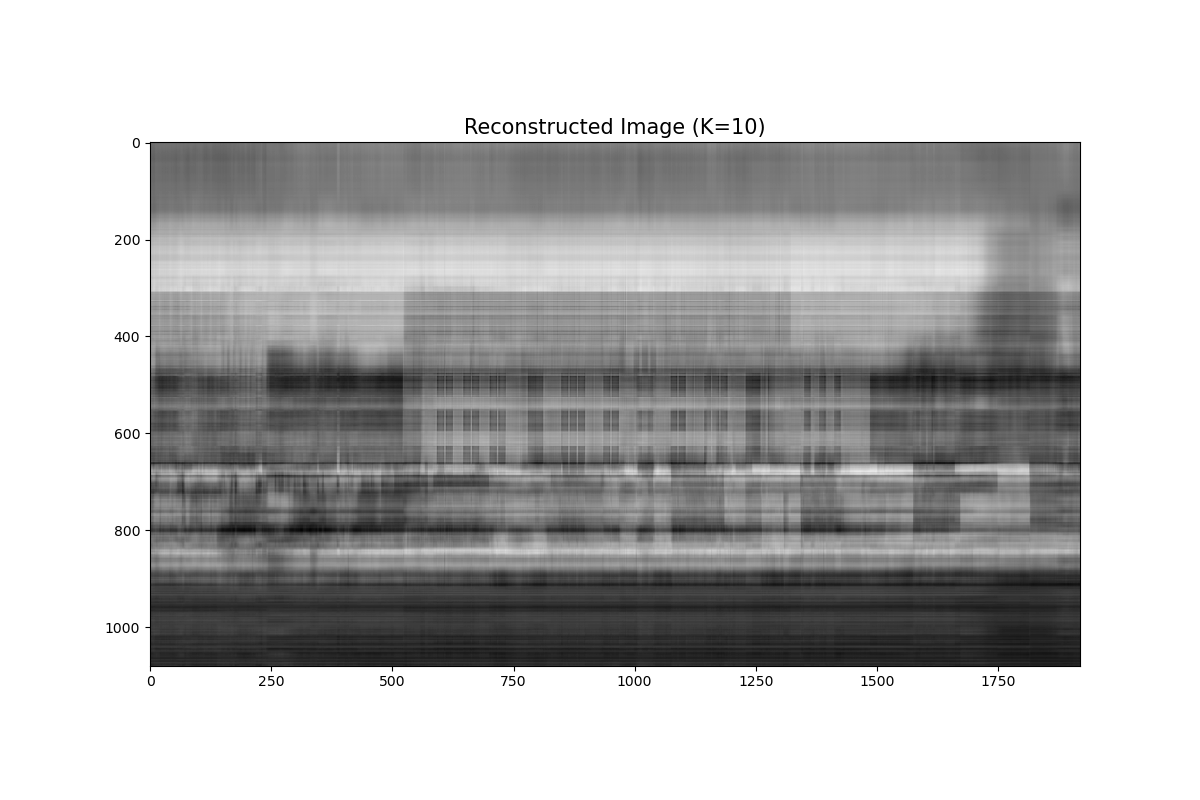
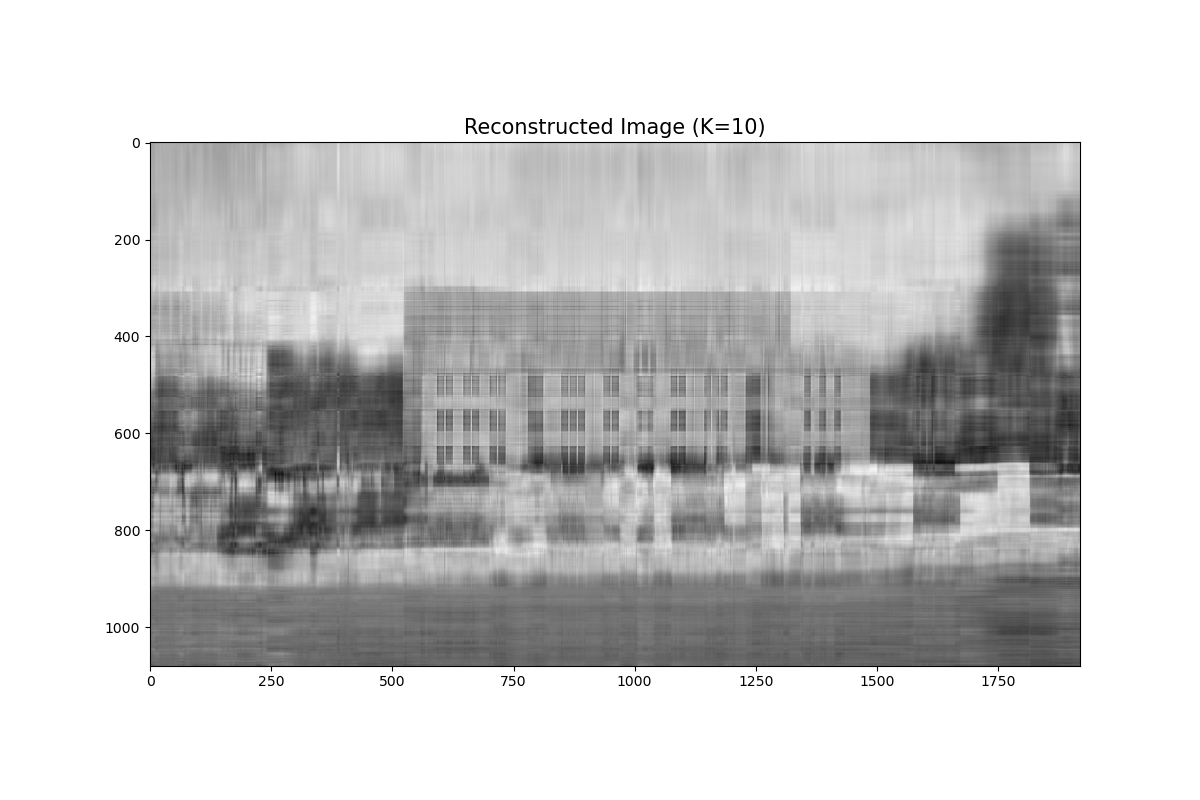
commit

diff --git a/problem4.py b/problem4.py
@@ -1,4 +1,3 @@
-
 import numpy as np
 from matplotlib.image import imread
 import matplotlib.pyplot as plt
@@ -52,12 +51,13 @@ if __name__ == "__main__":
     ### Reconstructe image: make X_tilde using B_10, B_50, B_100, B_500, B_1000
     ### Don't forget PCA is performed on the mean-shifted image. So you have to add the mean after reconstruction!
     ### Fill in ################################
-    X_tilde_10    = np.matmul(np.matmul(B_10, np.transpose(B_10)), X) + X_mean
-    X_tilde_50    = np.matmul(np.matmul(B_50, np.transpose(B_50)), X) + X_mean
-    X_tilde_100   = np.matmul(np.matmul(B_100, np.transpose(B_100)), X) + X_mean
-    X_tilde_500   = np.matmul(np.matmul(B_500, np.transpose(B_500)), X) + X_mean
-    X_tilde_1000  = np.matmul(np.matmul(B_1000, np.transpose(B_1000)), X) + X_mean
-    ############################################    
+    X_shifted = X - X_mean
+    X_tilde_10    = np.matmul(np.matmul(B_10, np.transpose(B_10)), X_shifted) + X_mean
+    X_tilde_50    = np.matmul(np.matmul(B_50, np.transpose(B_50)), X_shifted) + X_mean
+    X_tilde_100   = np.matmul(np.matmul(B_100, np.transpose(B_100)), X_shifted) + X_mean
+    X_tilde_500   = np.matmul(np.matmul(B_500, np.transpose(B_500)), X_shifted) + X_mean
+    X_tilde_1000  = np.matmul(np.matmul(B_1000, np.transpose(B_1000)), X_shifted) + X_mean
+    ############################################   
 
     for K in [10, 50, 100, 500, 1000]:
         plt.figure(figsize=[12,8])

diff --git a/problem3.py b/problem3.py
@@ -22,7 +22,7 @@ def PCA(X , num_components):
     eigen_values , eigen_vectors = np.linalg.eigh(cov_mat)
     
     ### sort from highest to lowest eigenvalues
-    eigen_vectors = eigen_vectors[:, np.argsort(-eigen_values)]
+    eigen_vectors = eigen_vectors[:, np.argsort(-eigen_values)] 
     eigen_values  = eigen_values[np.argsort(-eigen_values)]
     
     ### Fill in ################################
